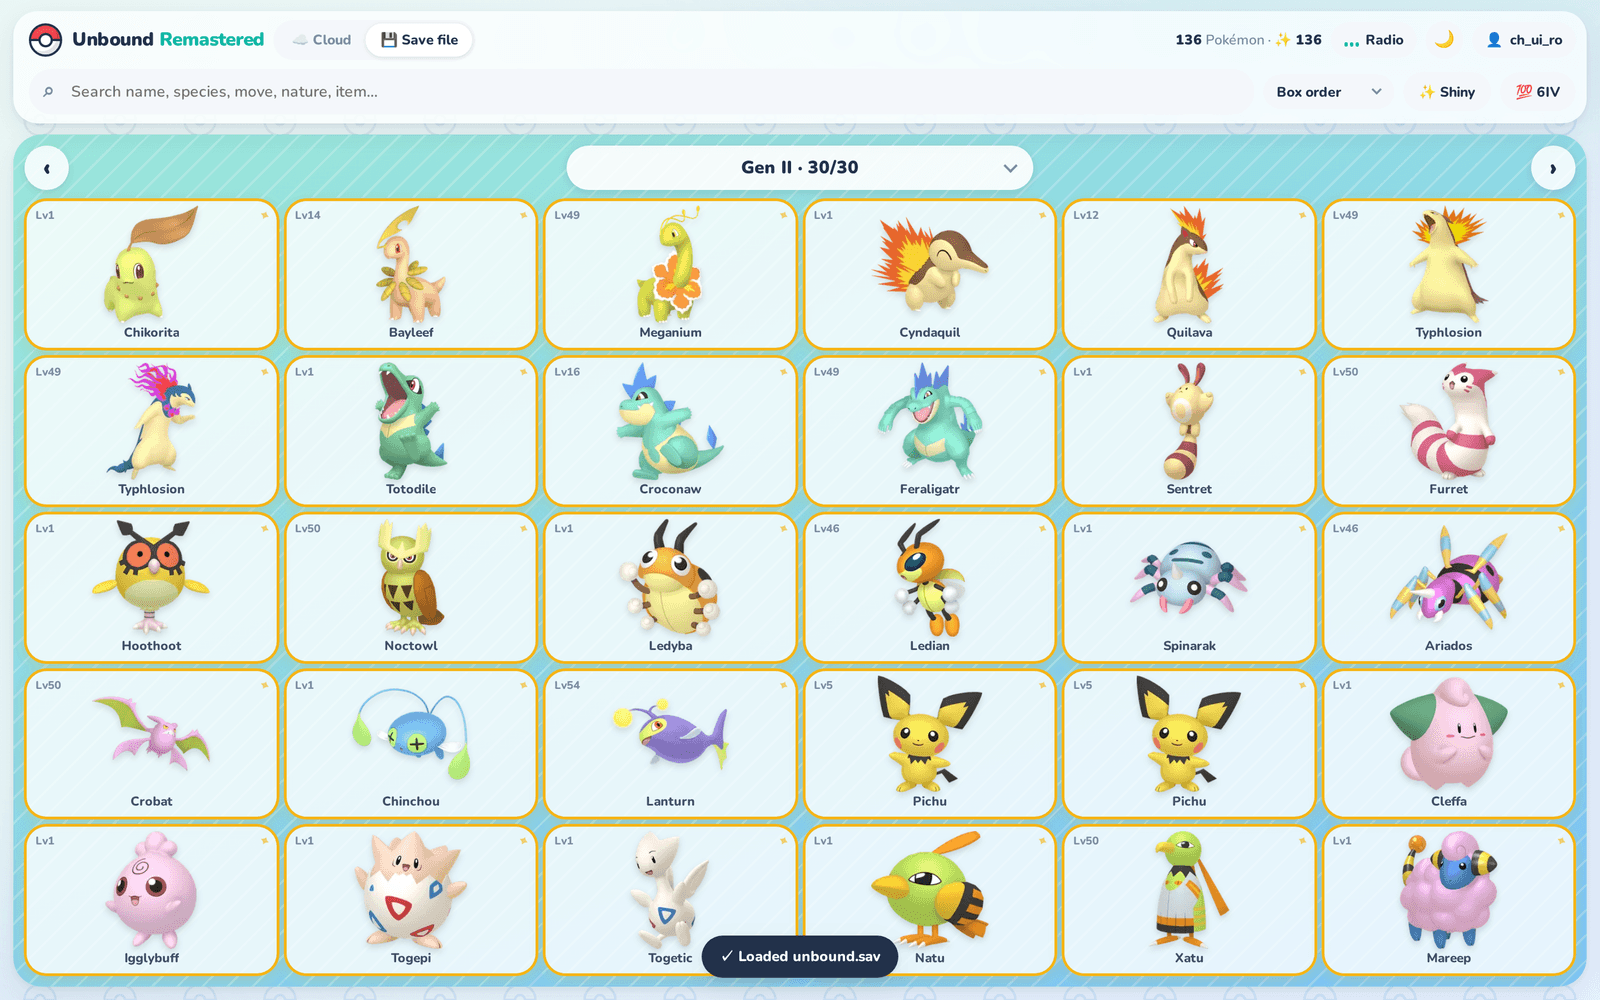
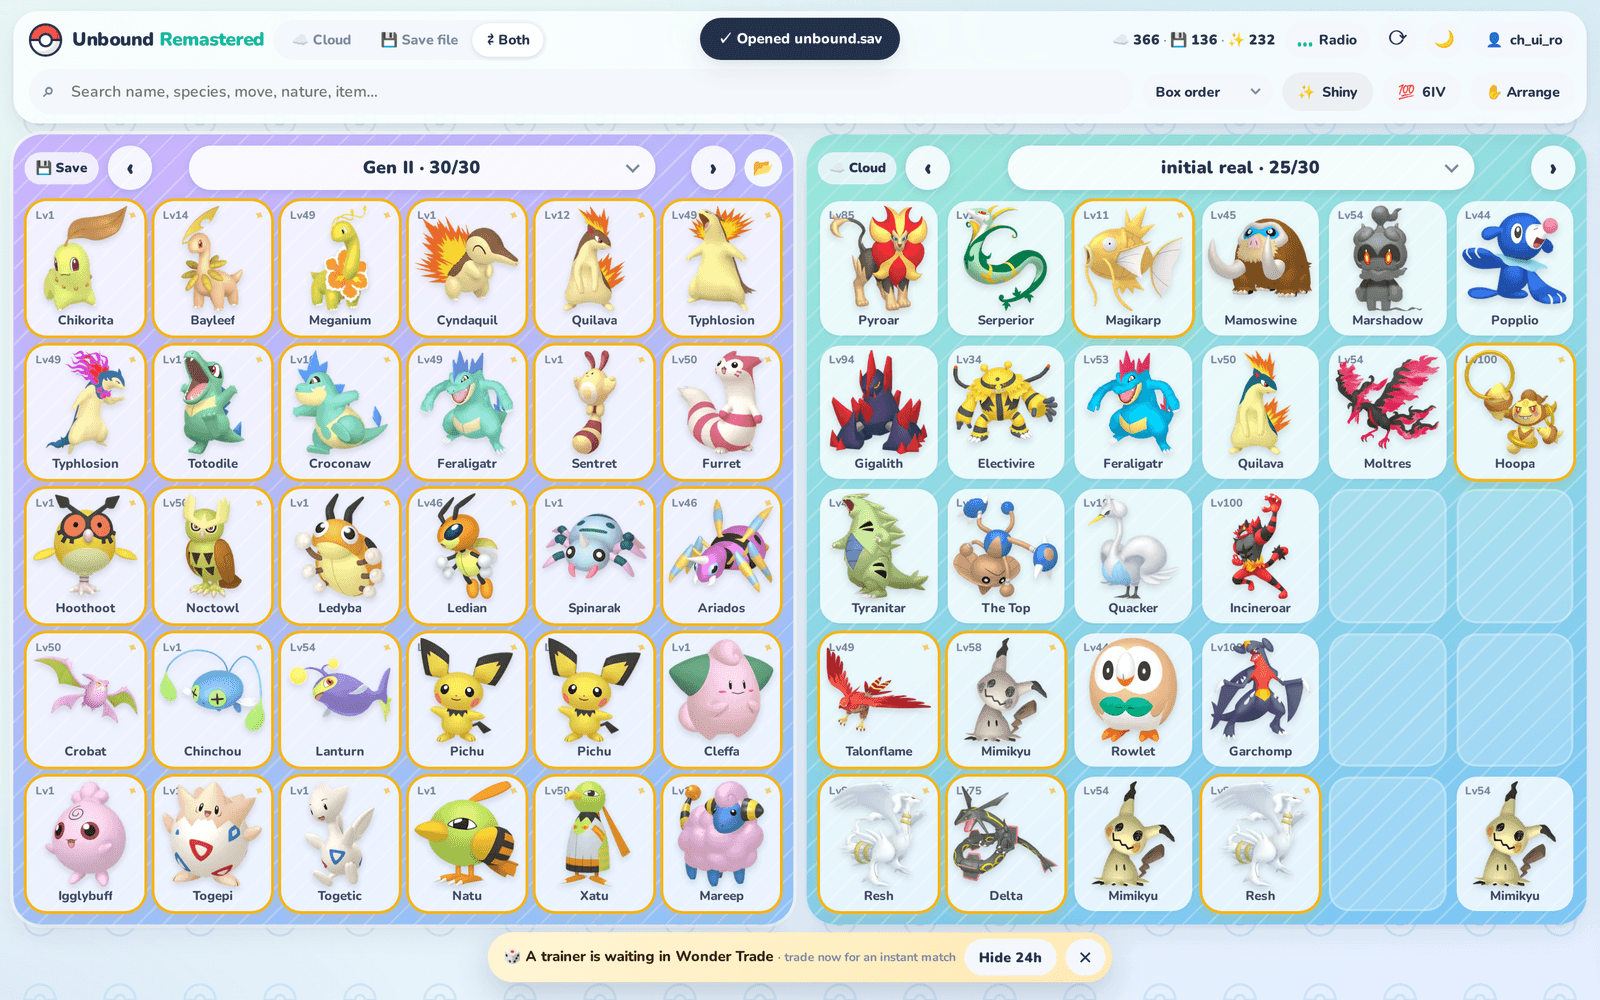
Refresh README screenshots for the current UI; fix two layout bugs
- New screenshots: transfer, arrange, summary actions, save file, mobile views
- 'Trainer waiting' notice moved to the bottom bar: it covered the box picker
  and widened the page on phones (pushing the close button off-screen)
- Box area now pads for however many floating bars are showing

diff --git a/public/index.html b/public/index.html
@@ -144,6 +144,7 @@
   .fbar{display:flex;align-items:center;gap:8px;background:var(--card);color:var(--ink);border-radius:999px;box-shadow:0 10px 30px #23314a33;padding:6px 6px 6px 14px;font-size:13px;font-weight:800;animation:barIn .25s cubic-bezier(.3,1.4,.5,1);max-width:100%}
   .fbar img{width:34px;height:34px;object-fit:contain;margin-left:-6px}
   .fbar .txt{white-space:nowrap;overflow:hidden;text-overflow:ellipsis;min-width:0}
+  @media (max-width:680px){ .fbar .txt{white-space:normal;line-height:1.25} }
   .fbar .txt small{color:var(--dim);font-weight:700}
   .fbar button{border:none;border-radius:999px;padding:8px 13px;font-weight:900;font-size:12.5px;background:var(--card2);white-space:nowrap}
   .fbar button.primary{background:linear-gradient(135deg,#14b8a6,#0ea5e9);color:#fff}
@@ -154,8 +155,6 @@
   [data-theme=dark] .fbar.trade{background:linear-gradient(135deg,#3a2f12,#4a3812);color:#ffe9b3}
   .spin{display:inline-block;animation:spin 1.2s linear infinite}
   @keyframes barIn{from{opacity:0;transform:translateY(20px) scale(.95)}}
-  #banner{position:absolute;top:18px;left:50%;transform:translateX(-50%);z-index:7}
-  #banner .fbar{background:linear-gradient(135deg,#fff7d6,#ffe9b3);color:#3a2800;padding:5px 5px 5px 14px}
   .slot{position:relative;min-width:0;min-height:0;border-radius:18px;background:var(--slot);box-shadow:0 1px 3px #0000000f;display:flex;flex-direction:column;align-items:center;justify-content:center;
     padding:4px 4px 6px;cursor:pointer;transition:transform .14s,box-shadow .14s;animation:slotIn .28s ease-out backwards}
   .slot:hover{transform:translateY(-3px);box-shadow:0 8px 20px #0000001f}
@@ -188,7 +187,6 @@
   .slot.shiny{box-shadow:0 0 0 2.5px var(--gold),0 4px 14px #f5b41640}
   .slot .sp{position:absolute;top:4px;right:6px;color:var(--gold);font-size:13px;animation:twinkle 2.2s ease-in-out infinite}
   @keyframes twinkle{0%,100%{transform:scale(1) rotate(0);opacity:1}50%{transform:scale(.7) rotate(25deg);opacity:.6}}
-  body.has-floats main{padding-bottom:78px}
 
   /* ---------- summary panel ---------- */
   #backdrop{position:fixed;inset:0;background:#0f152266;opacity:0;pointer-events:none;transition:opacity .2s;z-index:19}
@@ -345,7 +343,6 @@
 
 <main id="app-main" class="hidden">
   <div id="loading"><div class="ball"></div><span id="loadingText">Loading…</span></div>
-  <div id="banner"></div>
 </main>
 
 <div id="floats"></div>
@@ -685,13 +682,15 @@ function renderFloats(){
     const changed=["cloud","save"].reduce((a,k)=>a+(STORES[k]?STORES[k].boxes.filter((m,i)=>m!==STORES[k].base[i]).length:0),0);
     h+=`<div class="fbar"><span class="dot"></span><span class="txt">Unsaved <small>· ${changed} slot${changed===1?"":"s"}${RELEASED?` · ${RELEASED} released`:""}</small></span><button data-act="undo" title="Undo">↶</button><button data-act="discard">Discard</button><button class="primary" data-act="commit">Save</button></div>`;
   }else if(DOWNLOAD_READY) h+=`<div class="fbar"><span class="txt">💾 Updated save ready <small>· replace your old .sav with it</small></span><button class="primary" data-act="download">Download</button><button data-act="dismissDl">✕</button></div>`;
+  if(WAITING&&!TRADE&&!HOLD&&Date.now()>=+(localStorage.wtHideUntil||0)&&!sessionStorage.wtHidden)
+    h+=`<div class="fbar trade"><span class="txt">🎲 A trainer is waiting in Wonder Trade <small>· trade now for an instant match</small></span><button data-act="hideWait24">Hide 24h</button><button data-act="hideWait">✕</button></div>`;
   $("floats").innerHTML=h;
-  document.body.classList.toggle("has-floats",!!h);
+  $("app-main").style.paddingBottom=h?($("floats").offsetHeight+22)+"px":"";
 }
 $("floats").addEventListener("click",e=>{
   const act=e.target.closest("[data-act]")?.dataset.act; if(!act) return;
   ({ cancelTrade:cancelTrade, cancelHold:()=>{HOLD=null;render();}, releaseHeld:()=>{ if(HOLD) release(HOLD.src,HOLD.idx); },
-     undo, discard, commit, download:()=>$("dl").click(), dismissDl:()=>{DOWNLOAD_READY=false;render();} })[act]?.();
+     undo, discard, commit, hideWait24:()=>{localStorage.wtHideUntil=Date.now()+864e5;renderFloats();}, hideWait:()=>{sessionStorage.wtHidden=1;renderFloats();}, download:()=>$("dl").click(), dismissDl:()=>{DOWNLOAD_READY=false;render();} })[act]?.();
 });
 setInterval(()=>{ if(TRADE) renderFloats(); },1000);
 
@@ -800,10 +799,8 @@ async function pollTrade(){
 async function cancelTrade(){ if(!TRADE) return; try{ await api("/api/wondertrade/"+TRADE.id,{method:"DELETE"}); }catch{} }
 async function checkWaiting(){
   try{ WAITING=(await api("/api/wondertrade/check")).waiting; }catch{ return; }
-  const hidden=Date.now()<+(localStorage.wtHideUntil||0);
-  $("banner").innerHTML=WAITING&&!hidden&&!TRADE?`<div class="fbar"><span class="txt">🎲 A trainer is waiting in Wonder Trade <small>· trade now for an instant match</small></span><button data-h="24">Hide 24h</button><button data-h="0">✕</button></div>`:"";
+  renderFloats();
 }
-$("banner").addEventListener("click",e=>{ const b=e.target.closest("button[data-h]"); if(!b) return; if(+b.dataset.h) localStorage.wtHideUntil=Date.now()+864e5; $("banner").innerHTML=""; });
 setInterval(()=>{ if(STORES.cloud&&!document.hidden) checkWaiting(); },60000);
 
 /* ---------- sounds: cries, jingle, radio ---------- */

diff --git a/README.md b/README.md
@@ -6,12 +6,10 @@ Sign in with your existing [Unbound Cloud](https://unboundcloud.net/) account an
 
 ![PC box](screenshots/box.png)
 
-![Moving Pokémon between a save file and the Cloud](screenshots/transfer.png)
-
 <p align="center">
-  <img src="screenshots/mobile-box.png" width="260" alt="Mobile box">
-  <img src="screenshots/mobile-summary.png" width="260" alt="Mobile summary">
-  <img src="screenshots/mobile-login.png" width="260" alt="Mobile login">
+  <img src="screenshots/mobile-box.png" width="250" alt="Mobile PC box">
+  <img src="screenshots/mobile-summary.png" width="250" alt="Mobile summary card">
+  <img src="screenshots/mobile-arrange.png" width="250" alt="Mobile arrange mode">
 </p>
 
 ## Features
@@ -29,11 +27,28 @@ Sign in with your existing [Unbound Cloud](https://unboundcloud.net/) account an
 - **Route Radio** 📻 — an original, procedurally generated lofi soundtrack (Web Audio, no audio files): jazzy chords, a soft Game Boy–style lead, boom-bap drums, vinyl crackle, rain and waves. Four stations.
 - **Light & dark mode**, installable-feeling mobile layout with a bottom-sheet summary.
 
+## Screenshots
+
+**Save file ⇄ Cloud, side by side** — drag & drop, or ✋ Arrange to tap-move. Changes wait for **Save**.
+
+![Moving a Pokémon from a save file into the Cloud](screenshots/transfer.png)
+
 | | |
 |---|---|
-| ![Summary](screenshots/summary.png) | ![Dark mode](screenshots/dark-mode.png) |
-| ![Shiny filter](screenshots/shiny-filter.png) | ![Route Radio](screenshots/route-radio.png) |
-| ![Save file](screenshots/save-file.png) | ![Login](screenshots/login.png) |
+| ![Summary card with Move / To Save / Release](screenshots/summary.png) | ![Arrange mode — carrying a Pokémon](screenshots/arrange.png) |
+| **Summary card** — IVs, EVs, nature, moves, Move / Transfer / Release, Wonder Trade | **Arrange** — pick up, drop anywhere, swap, release |
+| ![Save file opened next to the Cloud](screenshots/save-file.png) | ![Shiny filter sorted by best IVs](screenshots/shiny-filter.png) |
+| **Save files** — browse a `.sav` with the same UI | **Search & filters** — ✨ shiny, 💯 6IV, sort by best IVs |
+| ![Dark mode](screenshots/dark-mode.png) | ![Route Radio lofi player](screenshots/route-radio.png) |
+| **Dark mode** | **Route Radio** — original lofi + Pokémon cries |
+| ![Sign in](screenshots/login.png) | |
+| **Sign in** with your Unbound Cloud account | |
+
+<p align="center">
+  <img src="screenshots/mobile-save-file.png" width="250" alt="Mobile save file">
+  <img src="screenshots/mobile-transfer.png" width="250" alt="Mobile transfer with unsaved changes">
+  <img src="screenshots/mobile-login.png" width="250" alt="Mobile sign in">
+</p>
 
 ## Run it
 
